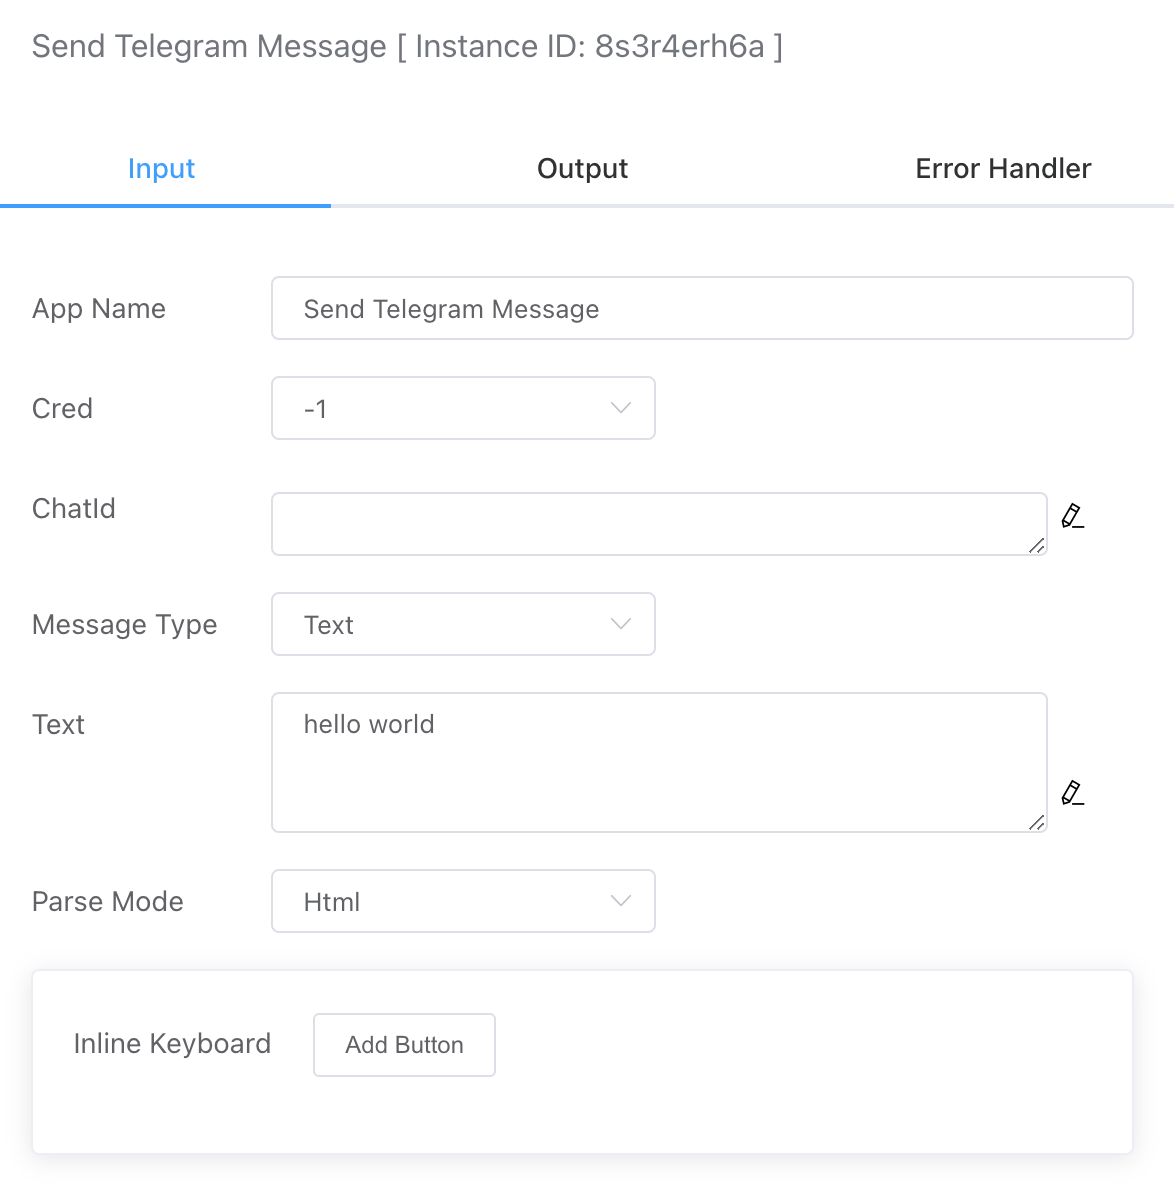
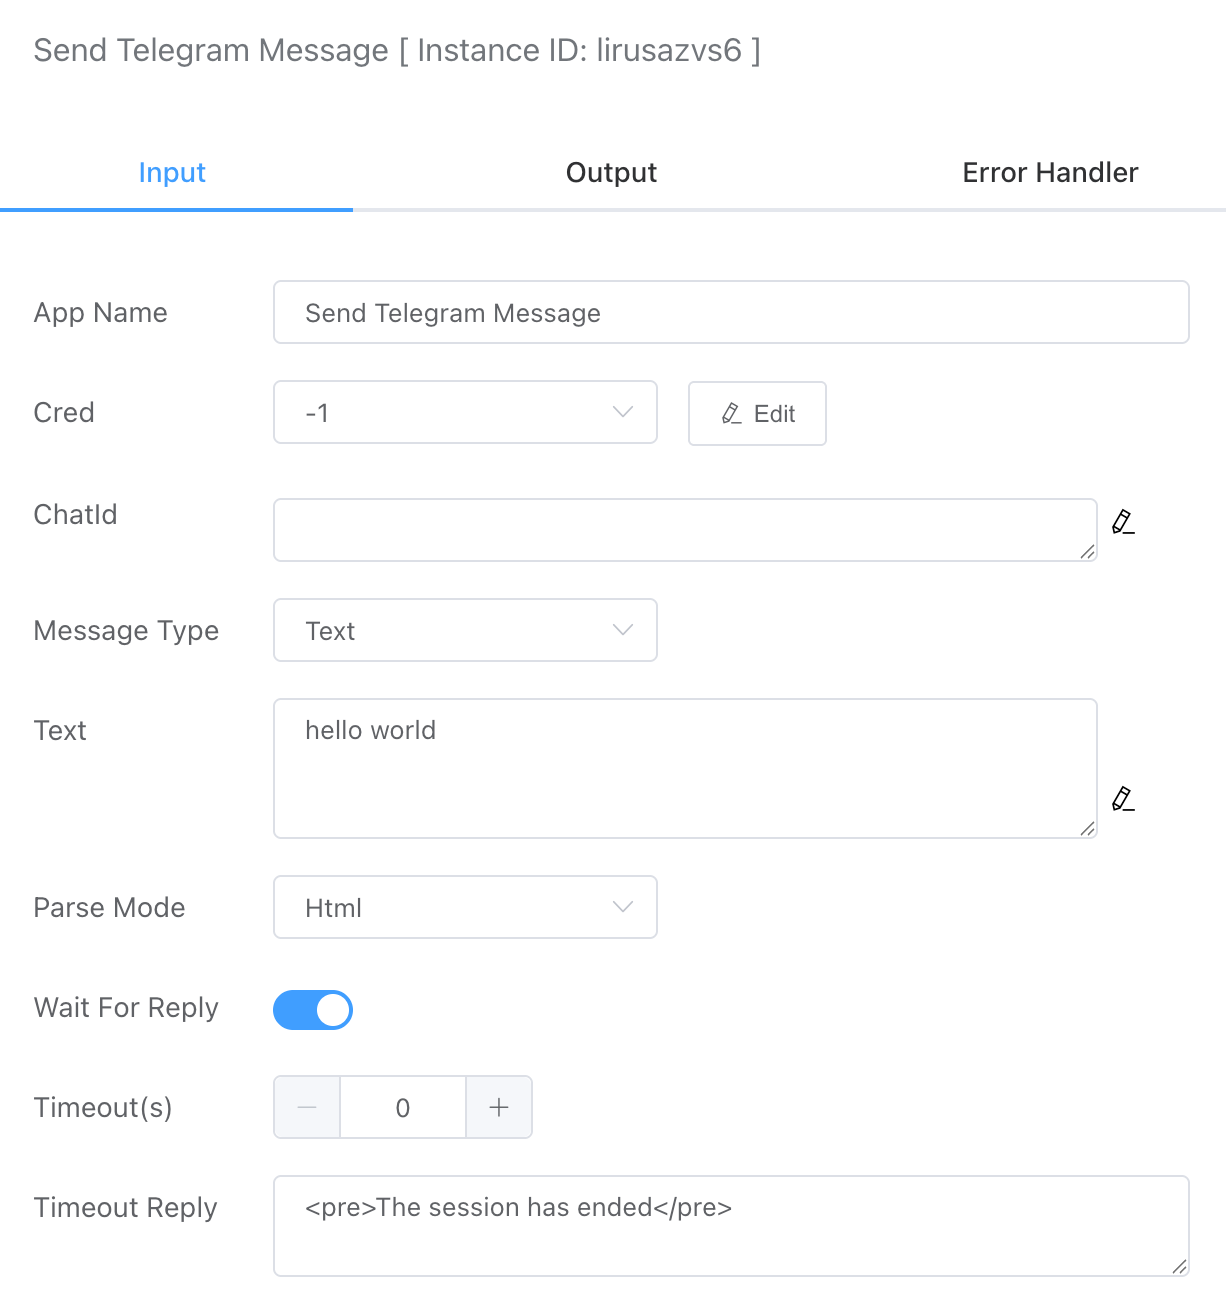
update send-tg-bot-msg.md

diff --git a/docs/send_telegram_message.md b/docs/send_telegram_message.md
@@ -15,7 +15,7 @@ Supports sending messages in various formats, including text, images, files, and
 <iframe 
     width="800" 
     height="600" 
-    src="https://www.youtube.com/embed/nCGqKR3TJTs"  frameborder="0" 
+    src="https://www.youtube.com/embed/FzeWsT5-ox4"  frameborder="0" 
     allow="accelerometer; autoplay; encrypted-media; gyroscope; picture-in-picture" 
     allowfullscreen>
 </iframe>
@@ -23,8 +23,6 @@ Supports sending messages in various formats, including text, images, files, and
 ## Input
 
 <img src="./img/send-telegram-msg-input-parameter.png" alt="image-20241013162426835" style="zoom:50%;" />
-
-
 
 ### Credential
 
@@ -66,11 +64,17 @@ Currently, the following types are supported:
 
 
 
-### Inline Keyboard
+### Wait For Reply
 
-If you need to send a message with button types, you can add buttons here. The created buttons can also be linked to subsequent branch processes, as shown in the figure below.
+Wait until the message is received before continuing to execute.
 
-<img src="./img/send-telegram-msg-inline-keyboard.png" alt="image-20241013162900166" style="zoom:50%;" />
+- Timeout
+
+  Set the timeout for waiting for a reply message
+
+- Timeout Reply
+
+  Set the prompt message sent when the wait timeout
 
 
 
@@ -80,6 +84,8 @@ If the send is successful, the result will display "ok."
 
 ```json
 {
+    "isTimeout": true,
+    "reply": "",
     "result": "ok"
 }
 ```

diff --git a/docs/zh/send_telegram_message.md b/docs/zh/send_telegram_message.md
@@ -15,7 +15,7 @@ meta:
 <iframe 
     width="800" 
     height="600" 
-    src="https://www.youtube.com/embed/nCGqKR3TJTs"  frameborder="0" 
+    src="https://www.youtube.com/embed/FzeWsT5-ox4"  frameborder="0" 
     allow="accelerometer; autoplay; encrypted-media; gyroscope; picture-in-picture" 
     allowfullscreen>
 </iframe>
@@ -68,13 +68,17 @@ meta:
 
 
 
-### Inline Keyboard
+### 等待回复
 
-如果需要发送按钮类型的消息，可以在这里添加按钮。创建的按钮也可以关联后续的分支流程，如下图所示。
+发送完消息后，等待用户回复后才继续执行
 
-<img src="./img/send-telegram-msg-inline-keyboard.png" alt="end-telegram-msg-inline-keyboard" title="tg发送inline keyboard消息" style="zoom: 50%;" />
+- 超时
 
+  设置等待回复超时的时间
 
+- 超时回复
+
+  设置等待回复超时时给用户发送的消息
 
 ## 出参
 
@@ -82,6 +86,8 @@ meta:
 
 ```json
 {
+    "isTimeout": true,
+    "reply": "",
     "result": "ok"
 }
 ```
